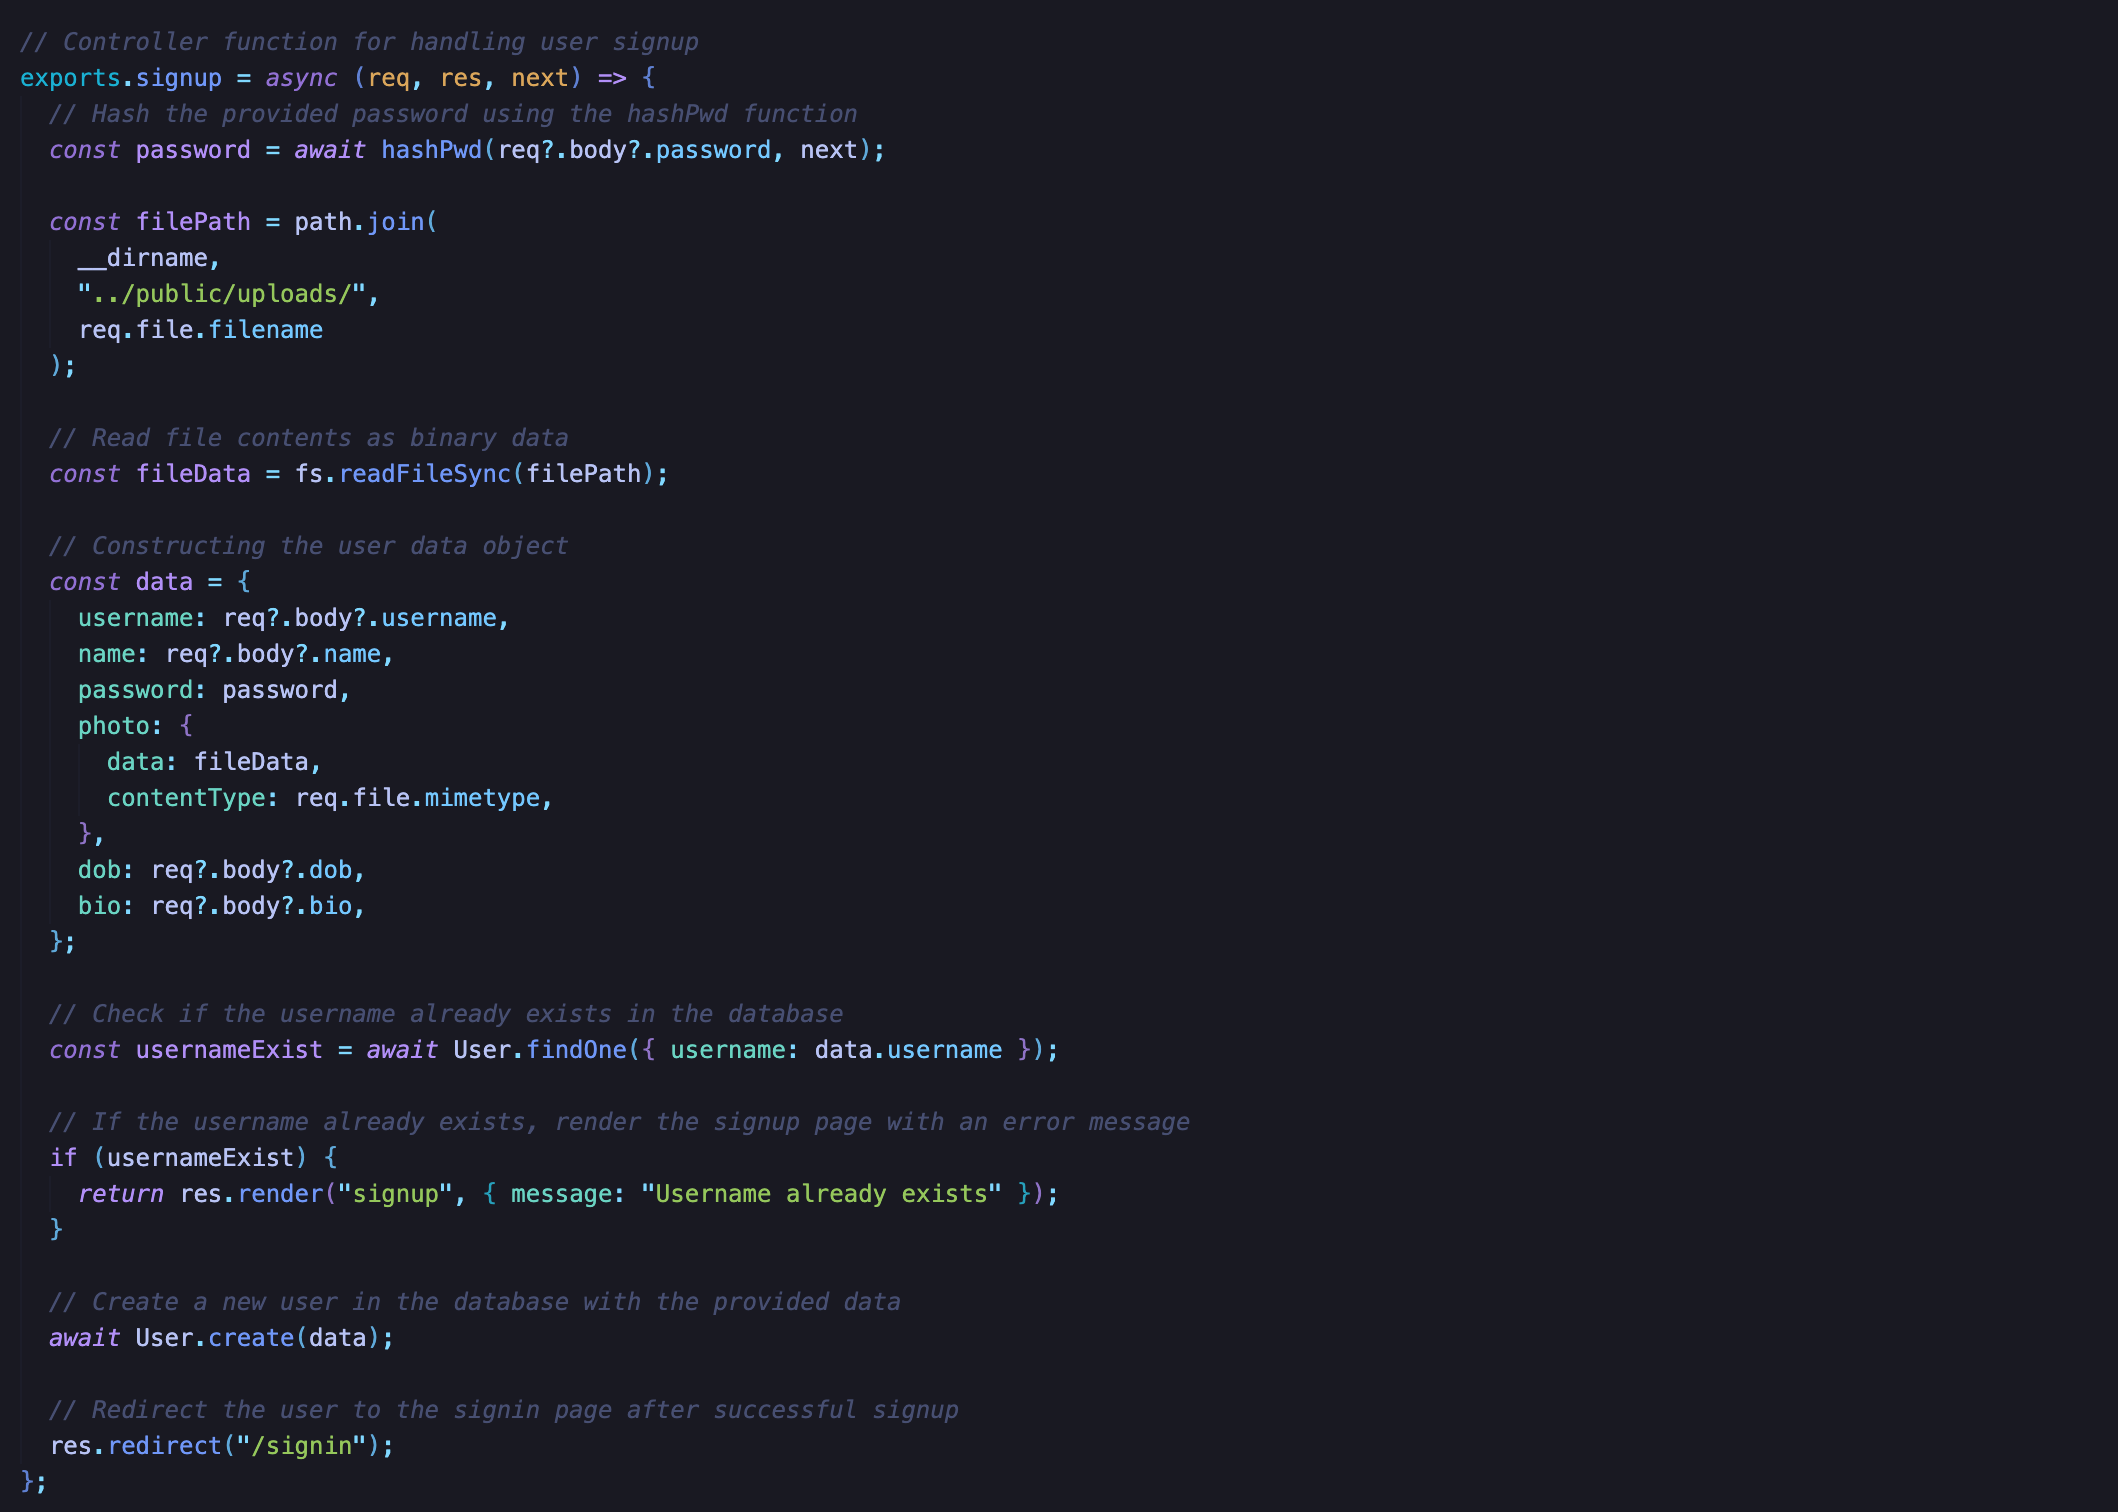
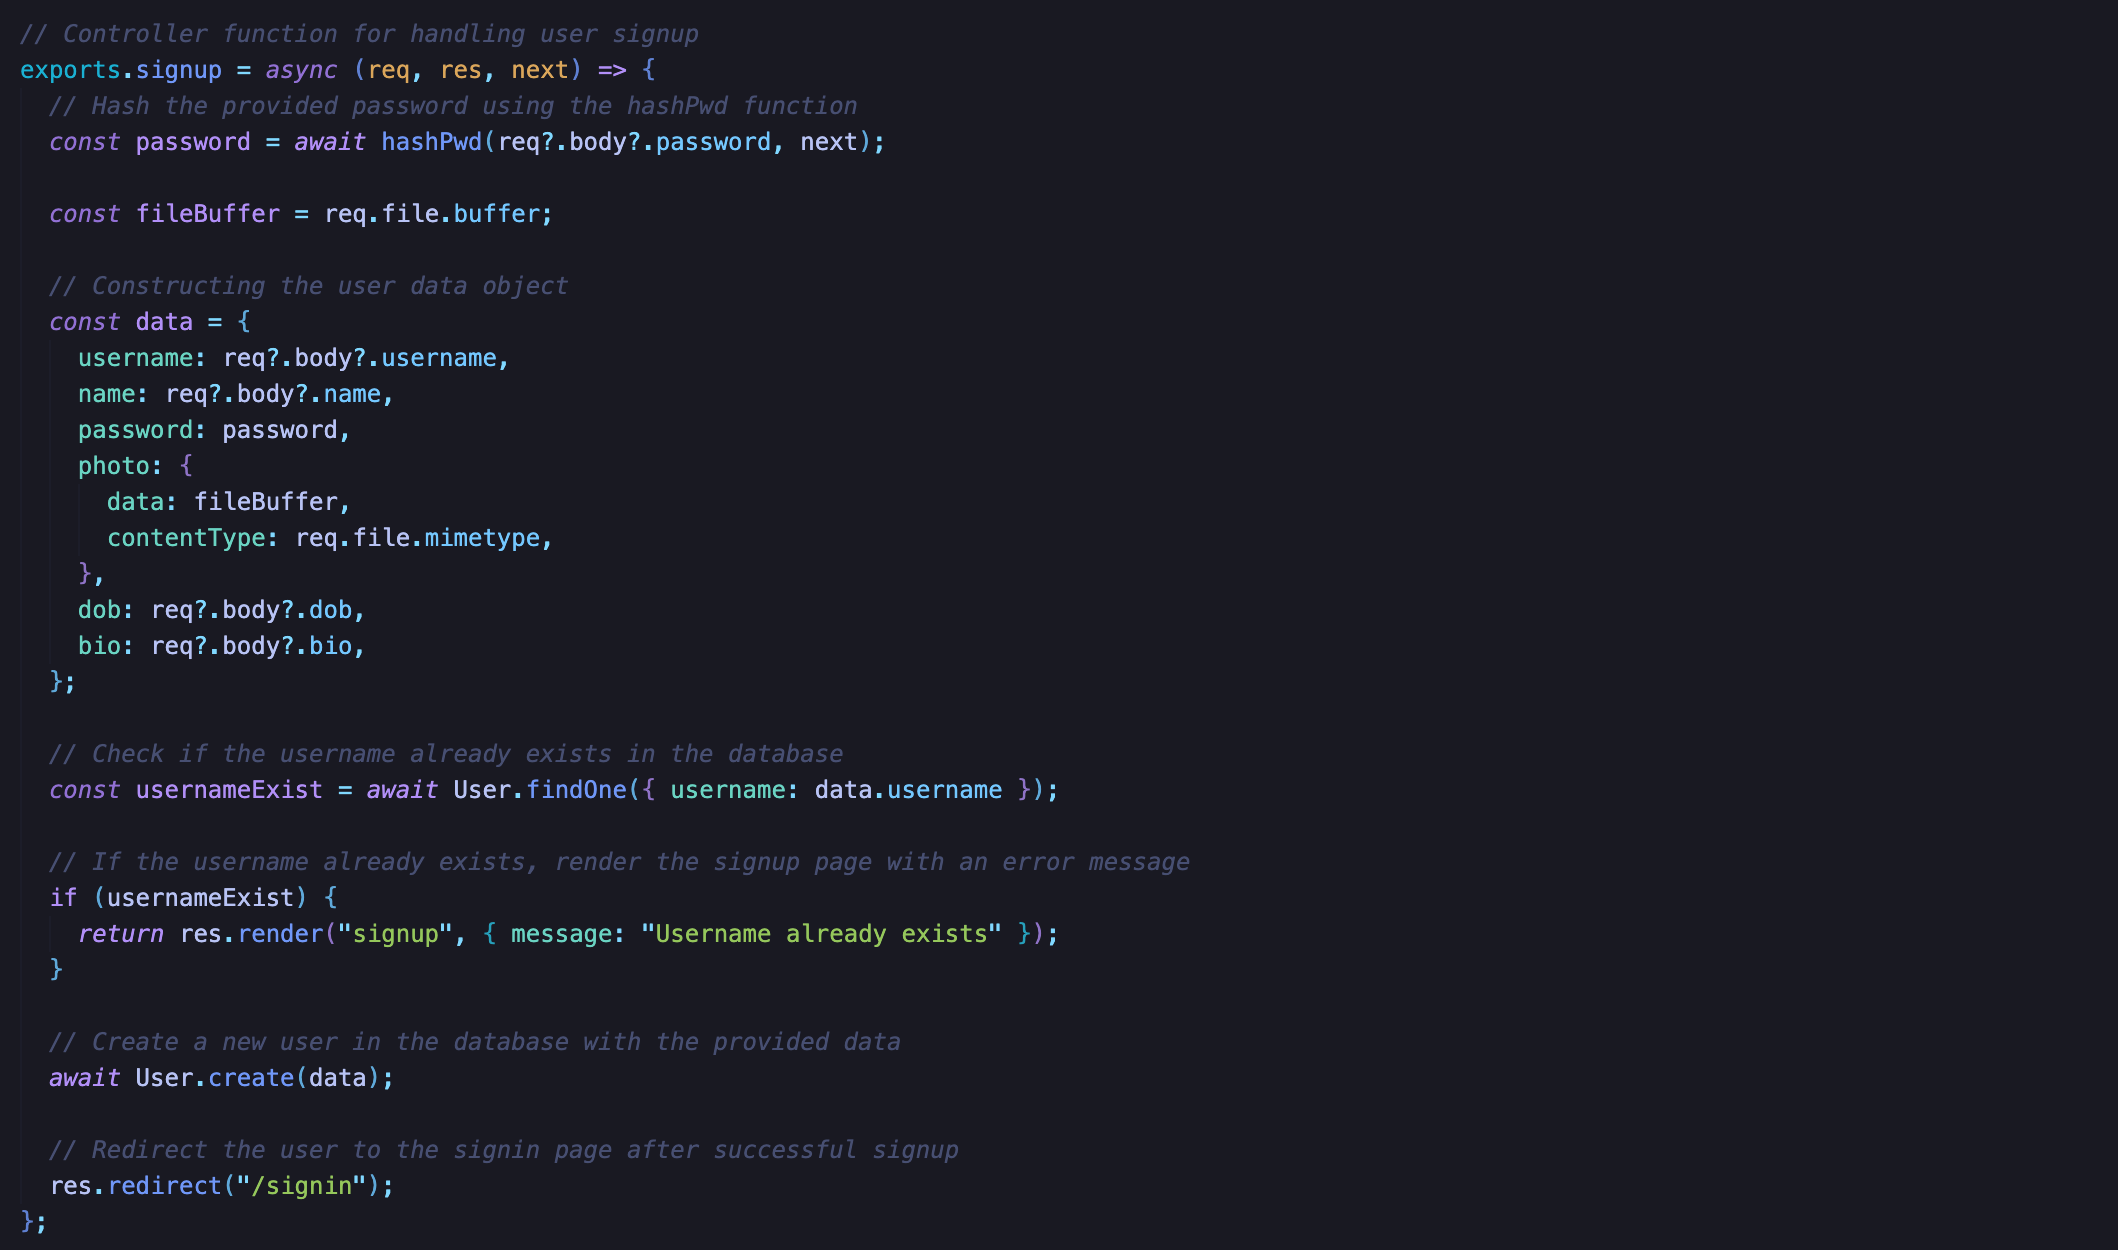
not save uploaded file locally

Changed region(s): [[0.0312, 0.5616, 0.5609, 0.9672], [0.0, 0.0312, 0.4051, 0.5304]]

diff --git a/controllers/index.js b/controllers/index.js
@@ -65,14 +65,7 @@ exports.signup = async (req, res, next) => {
   // Hash the provided password using the hashPwd function
   const password = await hashPwd(req?.body?.password, next);
 
-  const filePath = path.join(
-    __dirname,
-    "../public/uploads/",
-    req.file.filename
-  );
-
-  // Read file contents as binary data
-  const fileData = fs.readFileSync(filePath);
+  const fileBuffer = req.file.buffer;
 
   // Constructing the user data object
   const data = {
@@ -80,7 +73,7 @@ exports.signup = async (req, res, next) => {
     name: req?.body?.name,
     password: password,
     photo: {
-      data: fileData,
+      data: fileBuffer,
       contentType: req.file.mimetype,
     },
     dob: req?.body?.dob,

diff --git a/middlewares/upload.js b/middlewares/upload.js
@@ -1,17 +1,8 @@
 const multer = require("multer");
 const path = require("path");
 
-// Configuration for storing uploaded files
-const storage = multer.diskStorage({
-  destination: (req, file, cb) => {
-    // Set the destination folder for uploaded files
-    cb(null, "./public/uploads");
-  },
-  filename: (req, file, cb) => {
-    // Set the filename to include the current timestamp and the original file extension
-    cb(null, Date.now() + path.extname(file.originalname));
-  },
-});
+// Configure storage for uploaded files
+const storage = multer.memoryStorage();
 
 // Middleware function for handling file uploads and filtering file formats
 const handleFileUploadError = (req, res, next) => {

diff --git a/README.md b/README.md
@@ -195,15 +195,9 @@ To change the database location, you'll need to go to `.env` file and change the
 
 #### Handle Uploaded Photo
 
-![Handle Uploaded Photo](./public/images/upload-1.png)
+![Handle Uploaded Photo](./public/images/upload.png)
 
-- Multer is configured with a disk storage engine `multer.diskStorage` to define the destination and filename for storing uploaded files
-
-- The `destination` function will determine where file will be stored and in this function, all of the uploaded files will be saved in `/public/uploads`
-
-- The `filename` function will generate a unique filename based in the current timestamp and the original file extension
-
-![Handle Uploaded Photo](./public/images/upload-2.png)
+- Set up storage using `multer.memoryStorage()`, which stores the file data in memory rather than on disk. This is useful for scenarios where you want to process files without saving them to disk permanently.
 
 - The `fileFilter` function will be used to validate the uploaded file is acceptable based on its mimetype and extension
 
